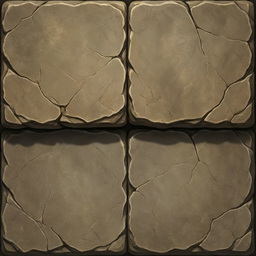
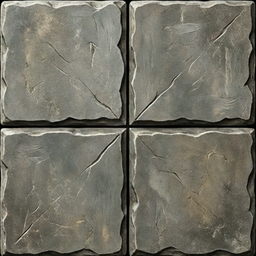
feat(terrain): 승인 석재 지붕 에셋을 돌온재에 적용

diff --git a/src/game/terrain/blockStructureRendering.ts b/src/game/terrain/blockStructureRendering.ts
@@ -1,3 +1,4 @@
+import {STONEWARM_ROOF_TEXTURE} from "./textures";
 import {buildBlockSurfaceFaces} from './blockGeometry';
 import Phaser from 'phaser';
 import type {CityBuilding,Position} from '../../client/types';
@@ -46,6 +47,43 @@ export function drawBlockStructure(currentMapScene:Phaser.Scene,currentCityBuild
   for(const currentProjectedFace of currentVisibleFaces) {
     currentBuildingGraphic.fillStyle(currentProjectedFace.surface.material==='roof'?CITY_BUILDING_STYLE.roofColors[currentCityBuilding.facilityKind]:CITY_BUILDING_STYLE.wallLight,1).fillPoints(currentProjectedFace.points,true);
     currentBuildingGraphic.lineStyle(1,CITY_BUILDING_STYLE.outlineColor,.35).strokePoints(currentProjectedFace.points,true);
+  }
+  if (currentCityBuilding.id.startsWith('stonewarm-')) {
+    const roofSurfaceFaces=currentVisibleFaces.filter(currentFaceRecord=>currentFaceRecord.surface.material==='roof'&&currentFaceRecord.surface.top);
+    if (roofSurfaceFaces.length) {
+      const roofCornerPoints=roofSurfaceFaces.flatMap(currentFaceRecord=>currentFaceRecord.points);
+      const roofMinimumX=Math.floor(Math.min(...roofCornerPoints.map(currentPointValue=>currentPointValue.x)));
+      const roofMinimumY=Math.floor(Math.min(...roofCornerPoints.map(currentPointValue=>currentPointValue.y)));
+      const roofCanvasWidth=Math.ceil(Math.max(...roofCornerPoints.map(currentPointValue=>currentPointValue.x)))-roofMinimumX;
+      const roofCanvasHeight=Math.ceil(Math.max(...roofCornerPoints.map(currentPointValue=>currentPointValue.y)))-roofMinimumY;
+      const roofTextureIdentifier=Phaser.Utils.String.UUID();
+      const roofCanvasTexture=currentMapScene.textures.createCanvas(roofTextureIdentifier,roofCanvasWidth,roofCanvasHeight);
+      if (!roofCanvasTexture) throw new Error('석재 지붕 캔버스 생성 실패');
+      const roofDrawingContext=roofCanvasTexture.getContext();
+      const roofSourceImage=currentMapScene.textures.get(STONEWARM_ROOF_TEXTURE).getSourceImage() as HTMLImageElement;
+      for (const roofFaceRecord of roofSurfaceFaces) {
+        const roofFacePoints=roofFaceRecord.points;
+        if (roofFacePoints.length!==4) throw new Error('석재 지붕 면은 사각형이어야 합니다.');
+        roofDrawingContext.save();
+        roofDrawingContext.beginPath();
+        roofFacePoints.forEach((roofPointValue,roofPointIndex)=>{
+          if (roofPointIndex===0) roofDrawingContext.moveTo(roofPointValue.x-roofMinimumX,roofPointValue.y-roofMinimumY);
+          else roofDrawingContext.lineTo(roofPointValue.x-roofMinimumX,roofPointValue.y-roofMinimumY);
+        });
+        roofDrawingContext.closePath();
+        roofDrawingContext.clip();
+        roofDrawingContext.transform((roofFacePoints[1].x-roofFacePoints[0].x)/roofSourceImage.width,
+          (roofFacePoints[1].y-roofFacePoints[0].y)/roofSourceImage.width,
+          (roofFacePoints[3].x-roofFacePoints[0].x)/roofSourceImage.height,
+          (roofFacePoints[3].y-roofFacePoints[0].y)/roofSourceImage.height,
+          roofFacePoints[0].x-roofMinimumX,roofFacePoints[0].y-roofMinimumY);
+        roofDrawingContext.drawImage(roofSourceImage,0,0);
+        roofDrawingContext.restore();
+      }
+      roofCanvasTexture.refresh();
+      currentMapScene.add.image(roofMinimumX,roofMinimumY,roofTextureIdentifier).setOrigin(0).setDepth(currentBuildingDepth+0.01)
+        .once('destroy',()=>currentMapScene.textures.remove(roofTextureIdentifier));
+    }
   }
   const currentRoofCorners=currentVisibleFaces.flatMap(currentProjectedFace=>currentProjectedFace.points);
   const currentEntrancePoint = projectTerrainPosition(currentCityBuilding.entrance);

diff --git a/src/game/terrain/textures.ts b/src/game/terrain/textures.ts
@@ -1,3 +1,4 @@
+import stonewarmRoofImageSource from "../../assets/world/stonewarm/buildings/stone-roof-v1.png";
 import iseulonGrassFrameSource from "../../assets/world/isloon/terrain/grass-mud-frame-v1.png";
 import extendedAshSource from "../../assets/terrain/extension-v1/ash-128.webp";
 import extendedBoulderSource from "../../assets/terrain/extension-v1/boulder-128.webp";
@@ -23,6 +24,7 @@ import { FIELD_TERRAIN_KINDS, TEXTURE_SIZE } from "./meadow";
 import { GAME_TILE_SOURCE_SIZE } from "./renderMetrics";
 import { ROAD_TILE_COUNT, roadFrame } from "./roadTiles";
 
+export const STONEWARM_ROOF_TEXTURE = "stonewarm-stone-roof";
 export const TERRAIN_ATLAS = "meadow-terrain";
 export const CLIFF_WALL_TEXTURE = "dew-meadow-cliff-face-v1";
 export const STONEWARM_PAVING_FRAME = "stonewarm-paving";
@@ -77,6 +79,7 @@ function clipRoad(ctx: CanvasRenderingContext2D, mask: number) {
 }
 
 export function preloadTerrain(scene: Phaser.Scene) {
+  scene.load.image(STONEWARM_ROOF_TEXTURE, stonewarmRoofImageSource);
   for (const kind of SOURCE_KINDS) scene.load.image(`terrain-source-${kind}`, SOURCES[kind]);
   for (const specialSourceRecord of SPECIAL_TERRAIN_SOURCES) scene.load.image(`terrain-source-${specialSourceRecord.frame}`, specialSourceRecord.source);
   scene.load.image(CLIFF_WALL_TEXTURE, cliffWallPatternSource);
